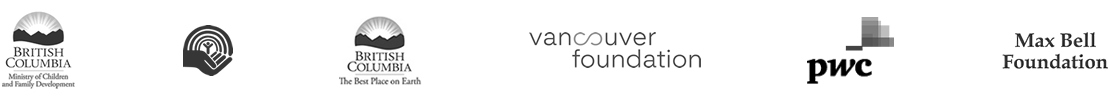
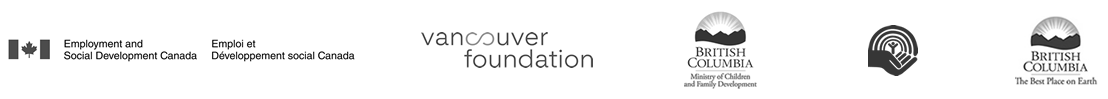
Header and footer update, sep 2018, by Vlad, based on instructions from Taz

Changed region(s): [[0.0, 0.1212, 0.7058, 0.8788], [0.8899, 0.1515, 1.0, 0.8788], [0.7058, 0.1515, 0.8285, 0.8485]]

diff --git a/app/pages/templates/base.html b/app/pages/templates/base.html
@@ -72,7 +72,7 @@
 				<a href="@fiber">Sign In</a>
 			</div>
 			<header id="{% block header_select %}contentpage{% endblock %}" class='grid_16'>
-			  <div id="logo" class="grid_4 alpha"><a href="/"><img src="{{ STATIC_URL }}img/bcfrp_logo.png" alt="BCFRP Logo"></a></div>
+			  <div id="logo" class="grid_3 alpha"><a href="/"><img src="{{ STATIC_URL }}img/bcfrp_logo.png" alt="BCFRP Logo"></a></div>
         <div id="searchbox" class="grid_6 prefix_6 omega clearfix">
           <form name='searchbox' type='submit' method='get' action="/search/">
             {% csrf_token %}
@@ -88,7 +88,7 @@
           </form>
         </div>
           <!--<img src="{{ STATIC_URL }}img/search_place_holder.png"></div>-->
-				<nav id="mainmenu" class="grid_12 omega">
+				<nav id="mainmenu" class="grid_14 omega">
 					{% show_menu "mainmenu" 1 1 %}
 				</nav>
 				{% if notices %}
@@ -168,12 +168,11 @@
 
 					<img src="{{ STATIC_URL }}img/funders.png" alt="Our Funders" border="0" usemap="#Map">
 					<map name="Map" id="Map">
-					    <area alt="CHILDREN AND FAMILY DEVELOPMENT" title="CHILDREN AND FAMILY DEVELOPMENT" href="http://www.gov.bc.ca/mcf/" shape="poly" coords="3,6,74,5,75,91,2,91" />
-					    <area alt="United Ways" title="United Ways" href="http://www.uwlm.ca" shape="poly" coords="169,4,244,7,246,91,170,91" />
-					    <area alt="Government of BC" title="Government of BC" href="http://www2.gov.bc.ca/" shape="poly" coords="331,8,425,7,430,90,329,89" />
-					    <area alt="Vancouver Foundation" title="Vancouver Foundation" href="http://www.vancouverfoundation.ca/" shape="poly" coords="523,14,526,81,715,77,708,15" />
-					    <area alt="" title="" href="http://www.pwc.com/ca/en.html" shape="poly" coords="794,88,792,10,909,10,910,86" />
-					    <area alt="" title="" href="http://www.maxbell.org/" shape="poly" coords="999,82,1108,83,1107,16,1003,13" />
+            <area alt="Employment and Social Development Canada" title="Employment and Social Development Canada" href="https://www.canada.ca/en/employment-social-development.html" coords="387,96,3,4" shape="rect">
+            <area alt="Vancouver Foundation" title="Vancouver Foundation" href="http://www.vancouverfoundation.ca/" coords="389,94,635,0" shape="rect">
+            <area alt="CHILDREN AND FAMILY DEVELOPMENT" title="CHILDREN AND FAMILY DEVELOPMENT" href="http://www.gov.bc.ca/mcf/" coords="640,98,806,2" shape="rect">
+            <area alt="United Way" title="United Way" href="http://www.uwlm.ca" coords="810,96,951,0" shape="rect">
+            <area alt="Government of BC" title="Government of BC" href="http://www2.gov.bc.ca/" coords="957,95,1107,1" shape="rect">
 					</map>
 				</div>
 				<div id="copyrights" class="grid_16 omega">The BC
